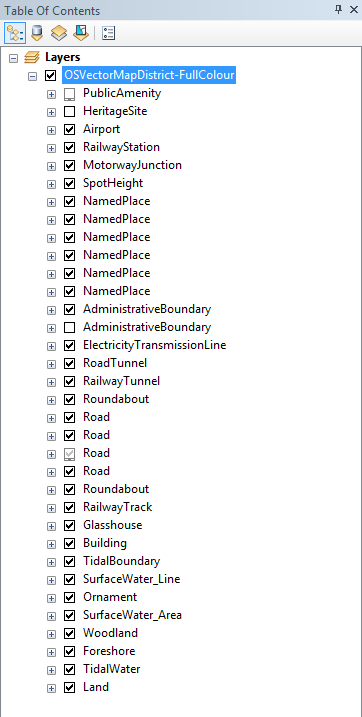
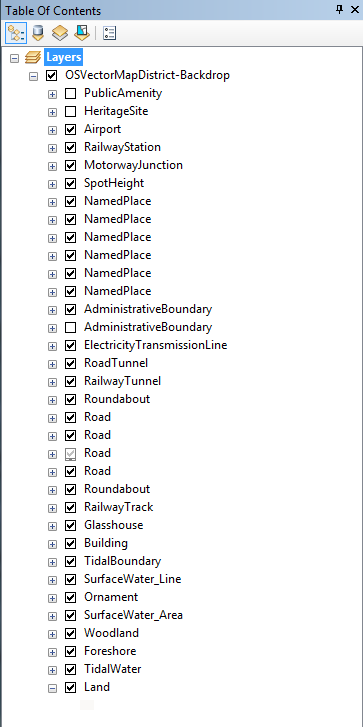
Update README.md

Changed region(s): [[0.0, 0.0, 1.0, 1.0]]

diff --git a/ESRI Shapefile stylesheets/ESRI stylesheets (LYR)/Full colour style/README.md b/ESRI Shapefile stylesheets/ESRI stylesheets (LYR)/Full colour style/README.md
@@ -26,7 +26,7 @@ We recommend viewing the map between **1:10,000** and **1:25,000** for maximum l
 
 Your map should now look similar to this: 
 
-  ![Screenshot](https://github.com/OrdnanceSurvey/OS-VectorMap-District-stylesheets/raw/master/ESRI%20Shapefile%20stylesheets/ESRI%20stylesheets%20(LYR)/Full%20colour%20style/images/VMD_BD_screenshot.PNG "Screenshot of OS VectorMap District at 1:17,500")
+  ![Screenshot](https://github.com/OrdnanceSurvey/OS-VectorMap-District-stylesheets/raw/master/ESRI%20Shapefile%20stylesheets/ESRI%20stylesheets%20(LYR)/Full%20colour%20style/images/VMD_FC_screenshot.PNG "Screenshot of OS VectorMap District at 1:17,500")
 
 ## Additional information
 
